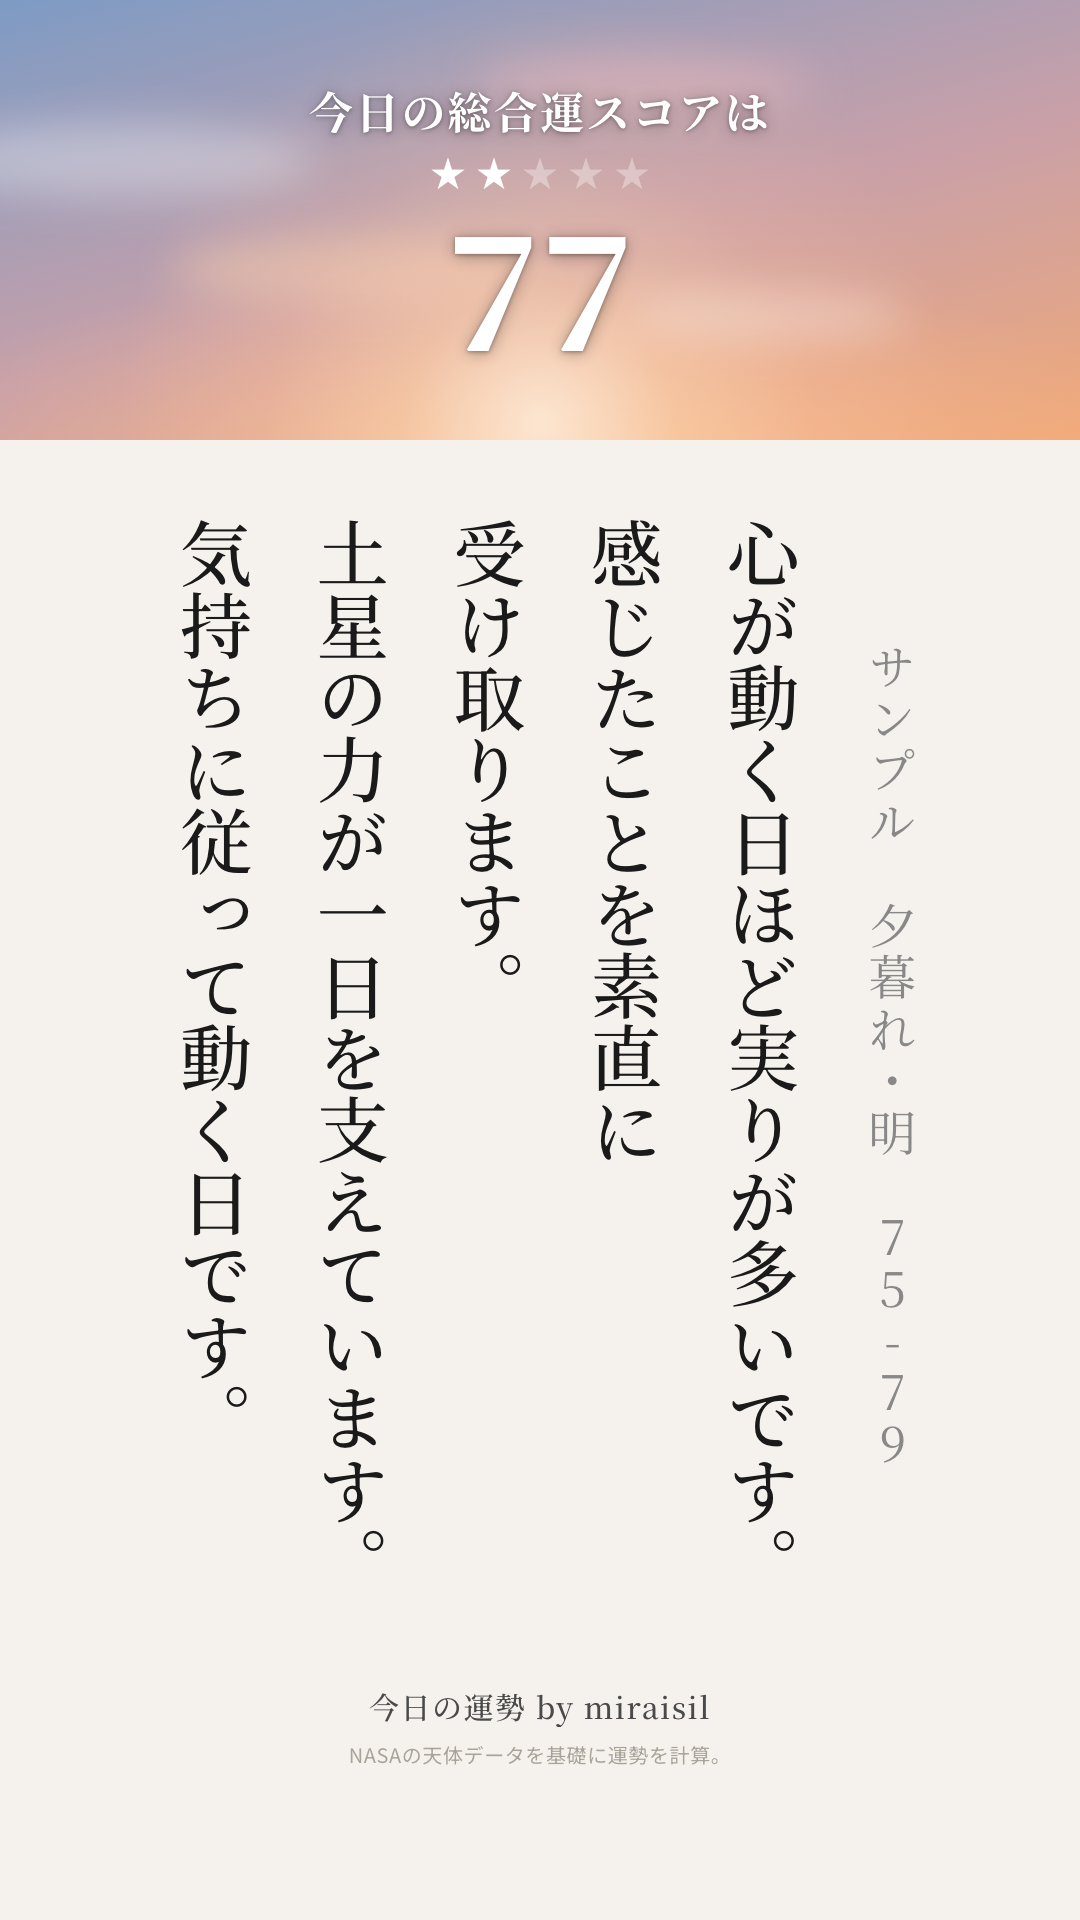
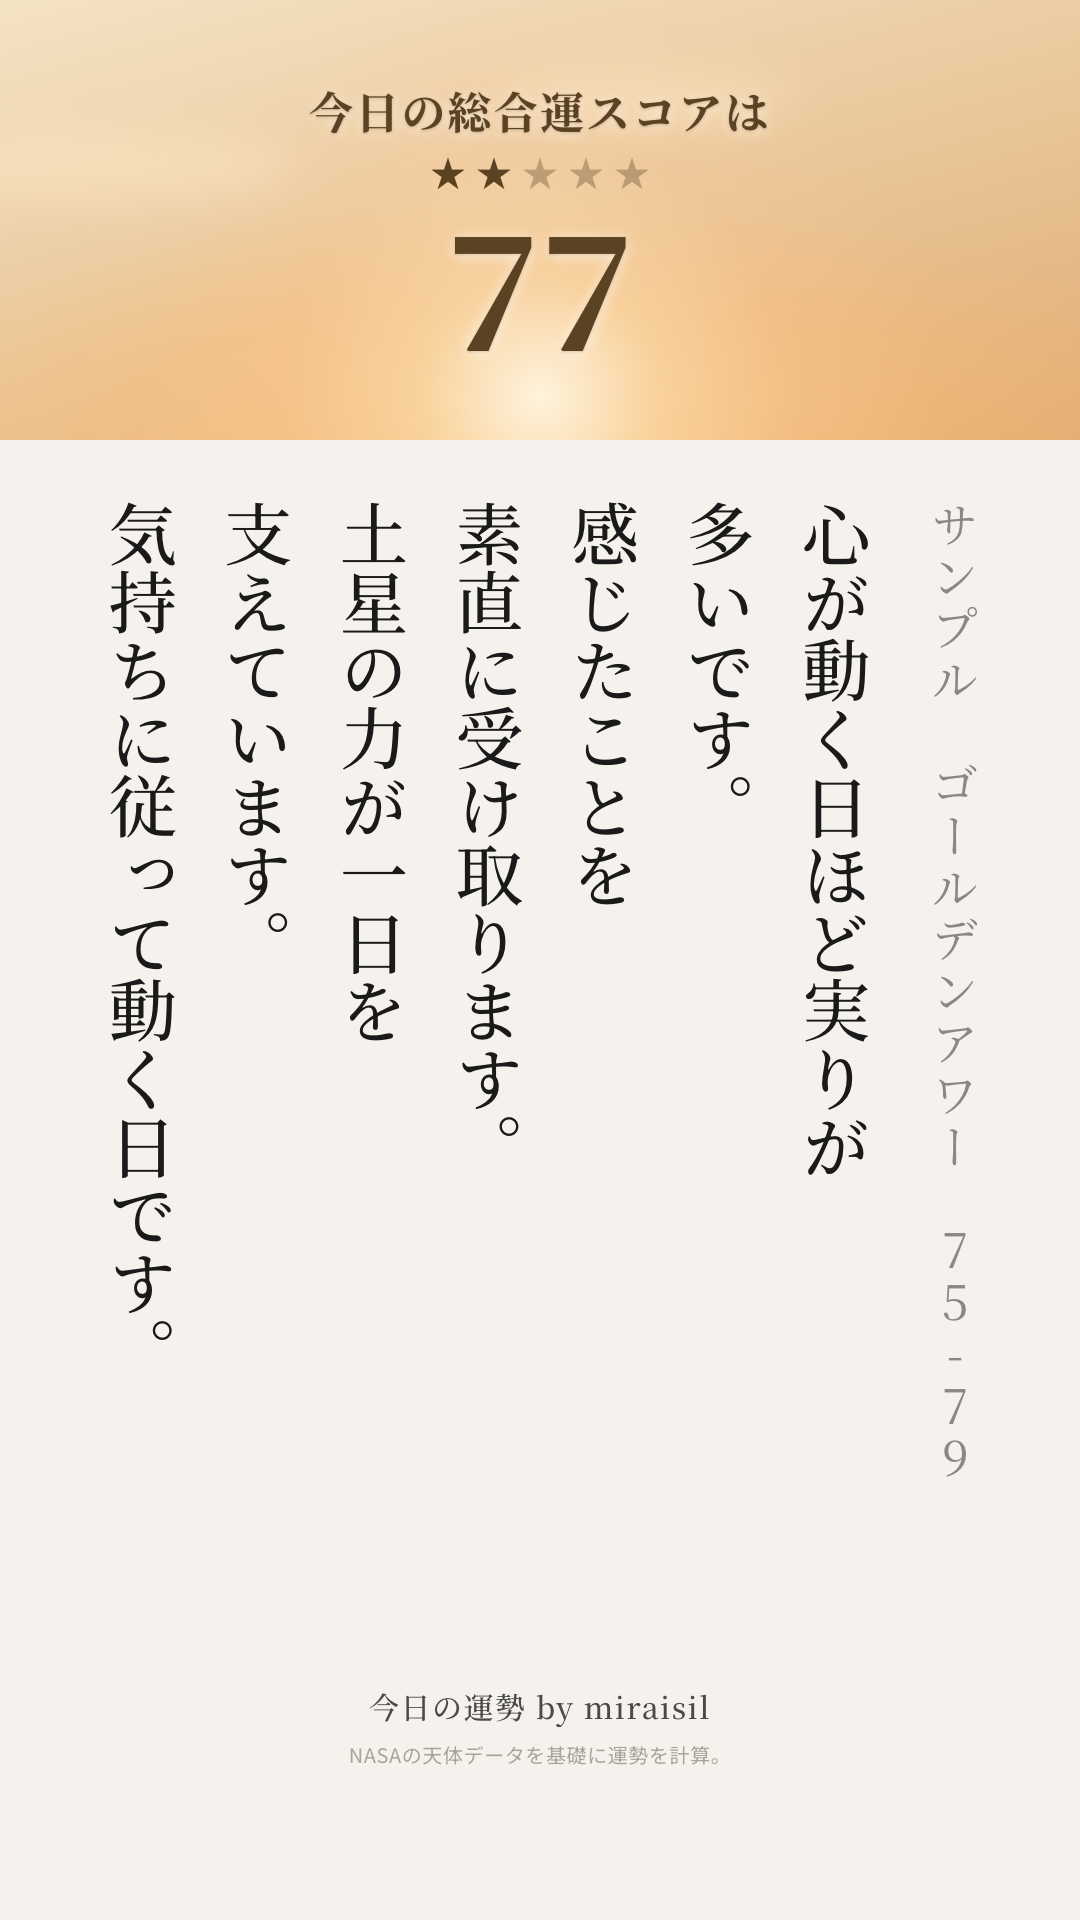
redesign score band as warm-only/light-amount signal (4 representative samples: 96/85/77/66)

diff --git a/sky-test/index.html b/sky-test/index.html
@@ -4,7 +4,7 @@
 <meta charset="UTF-8">
 <meta name="viewport" content="width=device-width, initial-scale=1.0">
 <meta name="robots" content="noindex, nofollow">
-<title>スコア帯カラー「空グラデーション版」確認 | miraisil</title>
+<title>スコア帯カラー「暖色・光の量」版 確認 | miraisil</title>
 <style>
   * { box-sizing: border-box; margin: 0; padding: 0; }
   body {
@@ -27,51 +27,27 @@
 </style>
 </head>
 <body>
-<div class="label">SCORE BAND COLOR「空グラデーション版」TEST &middot; Internal Only</div>
-<div class="note">快晴/青空/朝もや/夕暮れ/夜の7段階で、空の明るさそのものがスコアの高低を表す設計。<br>
-帯内にラベル文字は入れず、★の数と1対1対応。フッターは全スライド共通2行に統一。</div>
-
-<h2>帯サンプル（7段階・スコア固定・2026-07更新）</h2>
-<div class="row">
-  <figure><img src="band_97.png"><figcaption>97点 快晴 95-100 ★5</figcaption></figure>
-  <figure><img src="band_92.png"><figcaption>92点 青空 90-94 ★4</figcaption></figure>
-  <figure><img src="band_87.png"><figcaption>87点 朝もや・明 85-89 ★3</figcaption></figure>
-  <figure><img src="band_82.png"><figcaption>82点 朝もや・濃 80-84 ★3</figcaption></figure>
-  <figure><img src="band_77.png"><figcaption>77点 夕暮れ・明 75-79 ★2</figcaption></figure>
-  <figure><img src="band_72.png"><figcaption>72点 夕暮れ・濃 70-74 ★2</figcaption></figure>
-  <figure><img src="band_67.png"><figcaption>67点 夜 65-69 ★1</figcaption></figure>
+<div class="label">SCORE BAND COLOR「暖色・光の量」版 TEST &middot; Internal Only</div>
+<div class="note">
+方針転換: 「暗くしない・寒色/紫は一切使わない・全部暖色で明るい」。良し悪しの信号は
+明るさ/色相の飛びではなく「光の量」（太陽の白熱・光芒・きらめきの強さ）だけで表現する。
+高スコアほどエネルギッシュ、低スコアほど静かで柔らかい光になる。旧「漆黒の夜＋星空」
+（65-69）は廃止し、"静かな夕暮れ・残照"に置き換えた。
 </div>
-<div class="note">帯の区切りを変更（旧: 95-100/85-94/75-84/70-74/65-69 → 新: 95-100/90-94/80-89/70-79/65-69）。<br>
-95-100は光芒をほぼ消して面の白熱で灼熱感を表現。65-69は天の川を削除し星を15個に増量。<br>
-【2026-07更新①】70-79は星空の「明るくなった宇宙」案から、地平から差す暖色の光＋朝焼け色の雲の「夕暮れ」案に変更。<br>
-【2026-07更新②】80-89と70-79をそれぞれ2分割し7段階に細分化（85-89/80-84、75-79/70-74）。80-84は85-89よりもやを濃く太陽の輪郭をさらにぼかし、70-74は暖色帯を地平ぎりぎりまで沈めて上部の藍を濃くすることで、85-89(朝もや・明)→80-84(朝もや・濃)→75-79(夕暮れ・明)→70-74(夕暮れ・濃)→65-69(夜)がより滑らかに暗くなるようにした。</div>
 
-<h2>本日の実データ（12星座・総合運スライド）</h2>
+<h2>代表4スコアの確認（96・85・77・66）</h2>
 <div class="row">
-  <figure><img src="aries_slide6.png"><figcaption>牡羊座 79</figcaption></figure>
-  <figure><img src="taurus_slide6.png"><figcaption>牡牛座 74</figcaption></figure>
-  <figure><img src="gemini_slide6.png"><figcaption>双子座 81</figcaption></figure>
-  <figure><img src="cancer_slide6.png"><figcaption>蟹座 69</figcaption></figure>
-  <figure><img src="leo_slide6.png"><figcaption>獅子座 81</figcaption></figure>
-  <figure><img src="virgo_slide6.png"><figcaption>乙女座 76</figcaption></figure>
-  <figure><img src="libra_slide6.png"><figcaption>天秤座 79</figcaption></figure>
-  <figure><img src="scorpio_slide6.png"><figcaption>蠍座 67</figcaption></figure>
-  <figure><img src="sagittarius_slide6.png"><figcaption>射手座 81</figcaption></figure>
-  <figure><img src="capricorn_slide6.png"><figcaption>山羊座 71</figcaption></figure>
-  <figure><img src="aquarius_slide6.png"><figcaption>水瓶座 76</figcaption></figure>
-  <figure><img src="pisces_slide6.png"><figcaption>魚座 69</figcaption></figure>
+  <figure><img src="band_96.png"><figcaption>96点 白熱 95-100 ★5<br>光芒(強)+きらめき5個</figcaption></figure>
+  <figure><img src="band_85.png"><figcaption>85点 うすもや 85-89 ★3<br>光芒なし・きらめきなし</figcaption></figure>
+  <figure><img src="band_77.png"><figcaption>77点 ゴールデンアワー 75-79 ★2<br>低めの黄金色の柔らかな光</figcaption></figure>
+  <figure><img src="band_66.png"><figcaption>66点 残照 65-69 ★1<br>地平近くの柔らかな残光のみ</figcaption></figure>
 </div>
-<div class="note">本日の帯分布: 朝もや(80-89)×3　夕暮れ(70-79)×6　夜(65-69)×3<br>
-※快晴・青空は本日は非出現（実データのため自然な範囲のみ表示）。区切り変更で朝もや一極集中が解消され分散した。</div>
-
-<h2>スライド種別ごとの確認（牡羊座サンプル）</h2>
-<div class="row">
-  <figure><img src="aries_slide1_love.png"><figcaption>カテゴリ(恋愛運)・本文中央揃え</figcaption></figure>
-  <figure><img src="aries_slide4_luckynum.png"><figcaption>ラッキーナンバー・帯廃止</figcaption></figure>
-  <figure><img src="aries_slide5_luckycolor.png"><figcaption>ラッキーカラー・本文中央揃え</figcaption></figure>
-  <figure><img src="aries_slide7_cta.png"><figcaption>CTA刷新・QR削除</figcaption></figure>
+<div class="note">
+96は光っている/祝福されている、66は静かで穏やかな夕暮れ——という差が、暗さではなく
+「光の量」だけで伝わるかを確認するための4点抜粋です。背景グラデーションはすべて
+暖色（オレンジ〜ゴールド系）で統一し、寒色・紫・黒は使用していません。<br>
+問題なければ、この4点の中間にあたる90-94(好天)・80-84(もや濃い)・70-74(ゴールデンアワー・静か)
+の3段階を同じ方針で追加し、7段階に展開します。
 </div>
-<div class="note">本文（縦書き）は帯下端〜フッター上端の可視領域を基準に上下中央揃えに変更。<br>
-ラッキーナンバーは帯を廃止し#f5f2ec全面背景＋数字280pxのみに。CTAはQRコードを削除し、囲みカード＋LINEグリーンボタンに刷新。</div>
 </body>
 </html>
